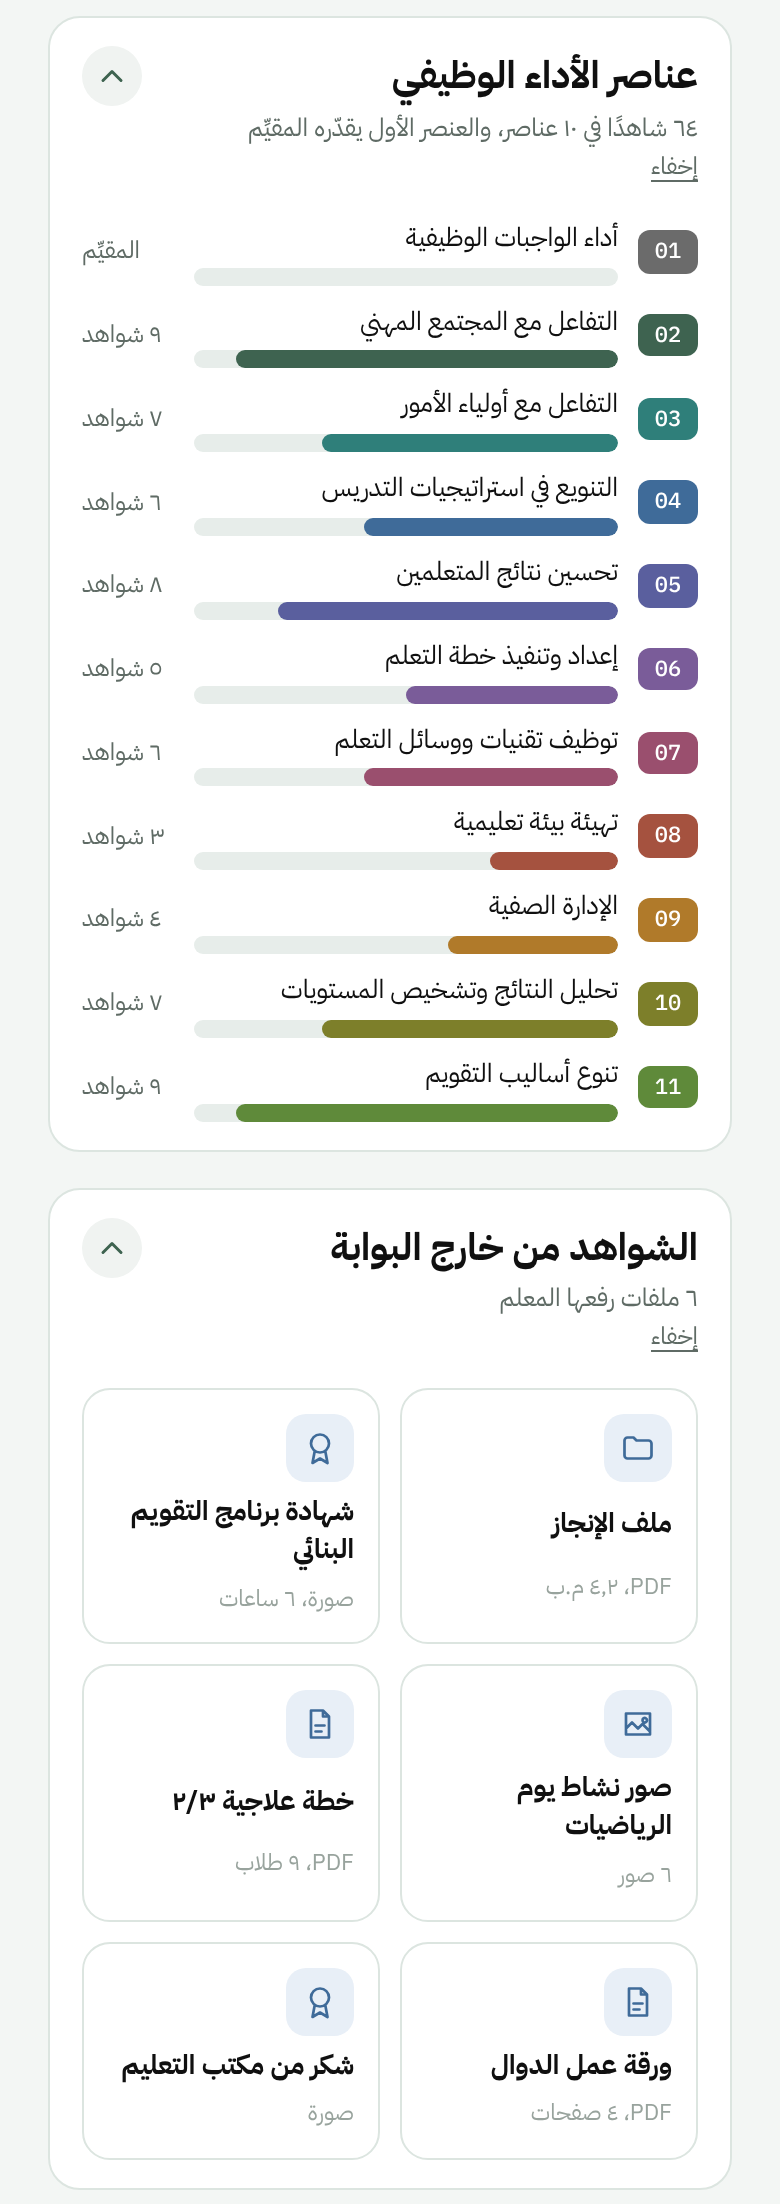
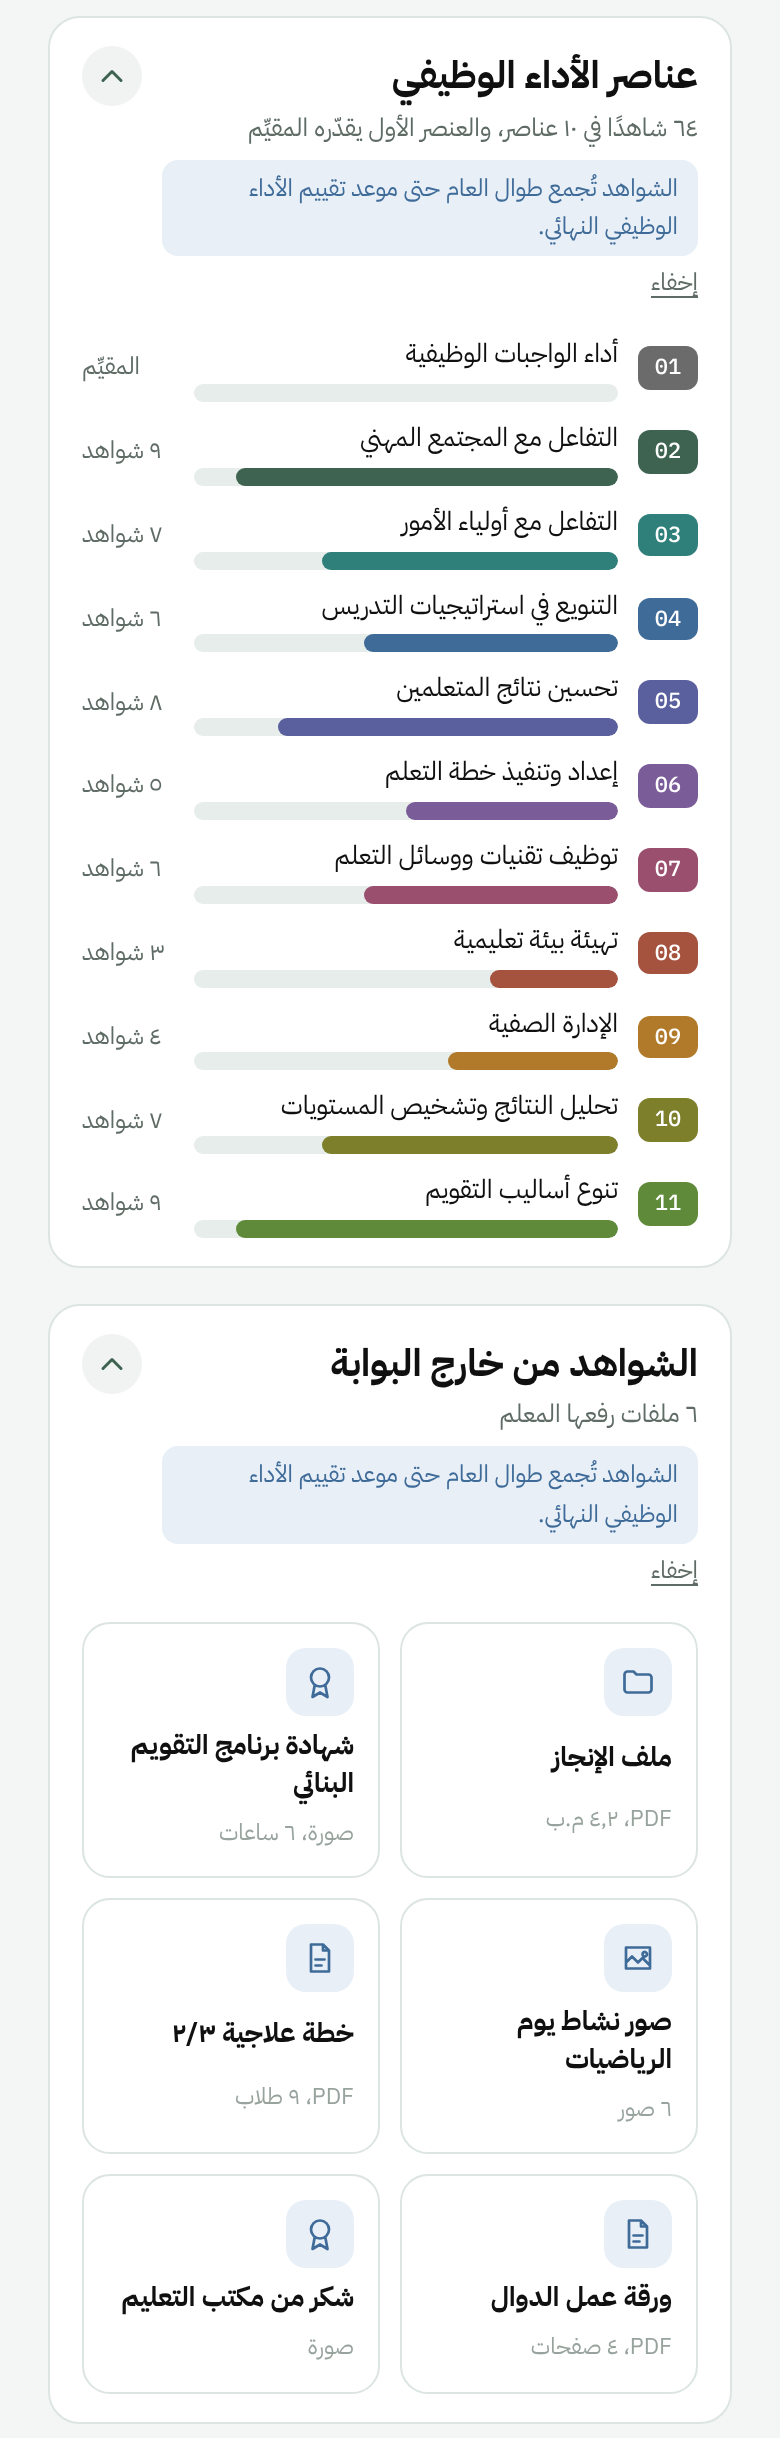
ملف المعلم الرقمي: تنبيه أن الشواهد تُجمع طوال العام حتى تقييم الأداء الوظيفي النهائي
Claude-Session: https://claude.ai/code/session_01QzqWfYFyUodUKxUMNwYvZ2

diff --git a/docs/teacher-digital-file/prototype.html b/docs/teacher-digital-file/prototype.html
@@ -380,6 +380,7 @@ section.sec { display: grid; gap: 12px; scroll-margin-top: 64px; }
 .fold-h { display: flex; justify-content: space-between; align-items: flex-start; gap: 10px; }
 .fold-h b { color: var(--deep); }
 .fold-t { font-size: 19px; }
+.fold-note { margin: 6px 0 4px; font-size: 12px; color: var(--info); background: var(--info-bg); border-radius: 8px; padding: 5px 10px; }
 .fold[open] summary { padding-bottom: 6px; }
 .chev { flex: none; width: 30px; height: 30px; border-radius: 50%; display: grid; place-items: center; background: var(--tint); color: var(--deep); transition: transform .2s; }
 .chev svg { width: 18px; height: 18px; }
@@ -661,7 +662,7 @@ section.sec { display: grid; gap: 12px; scroll-margin-top: 64px; }
   <!-- عناصر الأداء -->
   <section class="sec anim" id="elements">
     <details class="card fold">
-      <summary><div class="fold-h"><div><h2 class="fold-t">عناصر الأداء الوظيفي</h2><p class="sub num">٦٤ شاهدًا في ١٠ عناصر، والعنصر الأول يقدّره المقيِّم</p><span class="fold-cta"><span class="o">عرض العناصر</span><span class="c">إخفاء</span></span></div><span class="chev" aria-hidden="true"><svg viewBox="0 0 24 24" fill="none" stroke="currentColor" stroke-width="2" stroke-linecap="round" stroke-linejoin="round"><path d="M6 9l6 6 6-6"/></svg></span></div></summary>
+      <summary><div class="fold-h"><div><h2 class="fold-t">عناصر الأداء الوظيفي</h2><p class="sub num">٦٤ شاهدًا في ١٠ عناصر، والعنصر الأول يقدّره المقيِّم</p><p class="fold-note">الشواهد تُجمع طوال العام حتى موعد تقييم الأداء الوظيفي النهائي.</p><span class="fold-cta"><span class="o">عرض العناصر</span><span class="c">إخفاء</span></span></div><span class="chev" aria-hidden="true"><svg viewBox="0 0 24 24" fill="none" stroke="currentColor" stroke-width="2" stroke-linecap="round" stroke-linejoin="round"><path d="M6 9l6 6 6-6"/></svg></span></div></summary>
       <div class="els" id="els"></div>
     </details>
   </section>
@@ -669,7 +670,7 @@ section.sec { display: grid; gap: 12px; scroll-margin-top: 64px; }
   <!-- الشواهد -->
   <section class="sec" id="docs">
     <details class="card fold">
-      <summary><div class="fold-h"><div><h2 class="fold-t">الشواهد من خارج البوابة</h2><p class="sub num">٦ ملفات رفعها المعلم</p><span class="fold-cta"><span class="o">عرض الشواهد</span><span class="c">إخفاء</span></span></div><span class="chev" aria-hidden="true"><svg viewBox="0 0 24 24" fill="none" stroke="currentColor" stroke-width="2" stroke-linecap="round" stroke-linejoin="round"><path d="M6 9l6 6 6-6"/></svg></span></div></summary>
+      <summary><div class="fold-h"><div><h2 class="fold-t">الشواهد من خارج البوابة</h2><p class="sub num">٦ ملفات رفعها المعلم</p><p class="fold-note">الشواهد تُجمع طوال العام حتى موعد تقييم الأداء الوظيفي النهائي.</p><span class="fold-cta"><span class="o">عرض الشواهد</span><span class="c">إخفاء</span></span></div><span class="chev" aria-hidden="true"><svg viewBox="0 0 24 24" fill="none" stroke="currentColor" stroke-width="2" stroke-linecap="round" stroke-linejoin="round"><path d="M6 9l6 6 6-6"/></svg></span></div></summary>
       <div class="docs" id="docGrid"></div>
     </details>
   </section>

diff --git a/docs/teacher-digital-file/handoff.md b/docs/teacher-digital-file/handoff.md
@@ -121,6 +121,7 @@
 
 **١١. عناصر الأداء والشواهد المرفوعة ✅ مطويّان**
 - يظهر لكل منهما عنوان وسطر ملخص («٦٤ شاهدًا في ١٠ عناصر»، «٦ ملفات رفعها المعلم») و«عرض»، ويضغط الزائر ليفتحه. الضغط على تبويبه في الشريط يفتحه أيضًا.
+- تحت ملخص كلٍّ منهما تنبيه ظاهر وهو مطوي: «الشواهد تُجمع طوال العام حتى موعد تقييم الأداء الوظيفي النهائي»، حتى لا يُحكم على قلة الشواهد أول العام.
 
 انتهى نقاش الأقسام كلها. الخطوة التالية: مراجعة لوحة المعلم، ثم أمر المستخدم «ابدأ» للتنفيذ.
 
